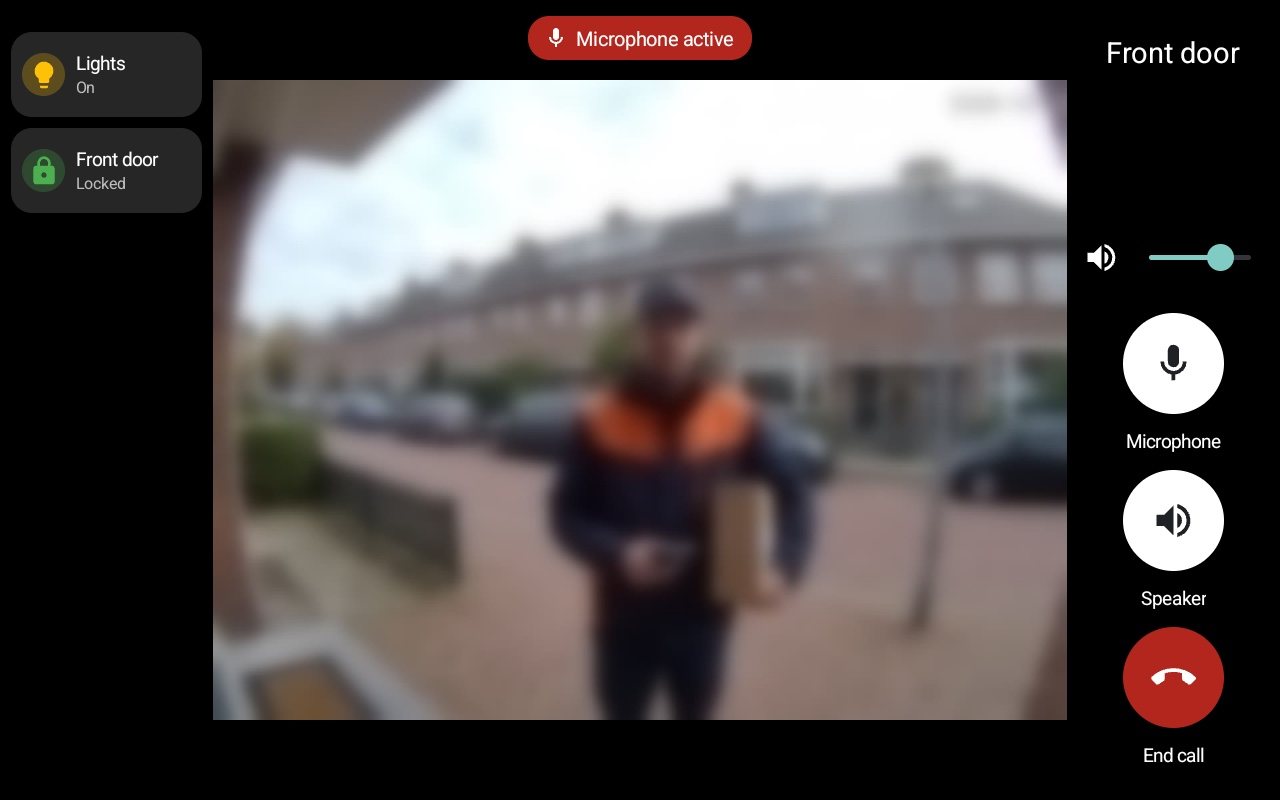
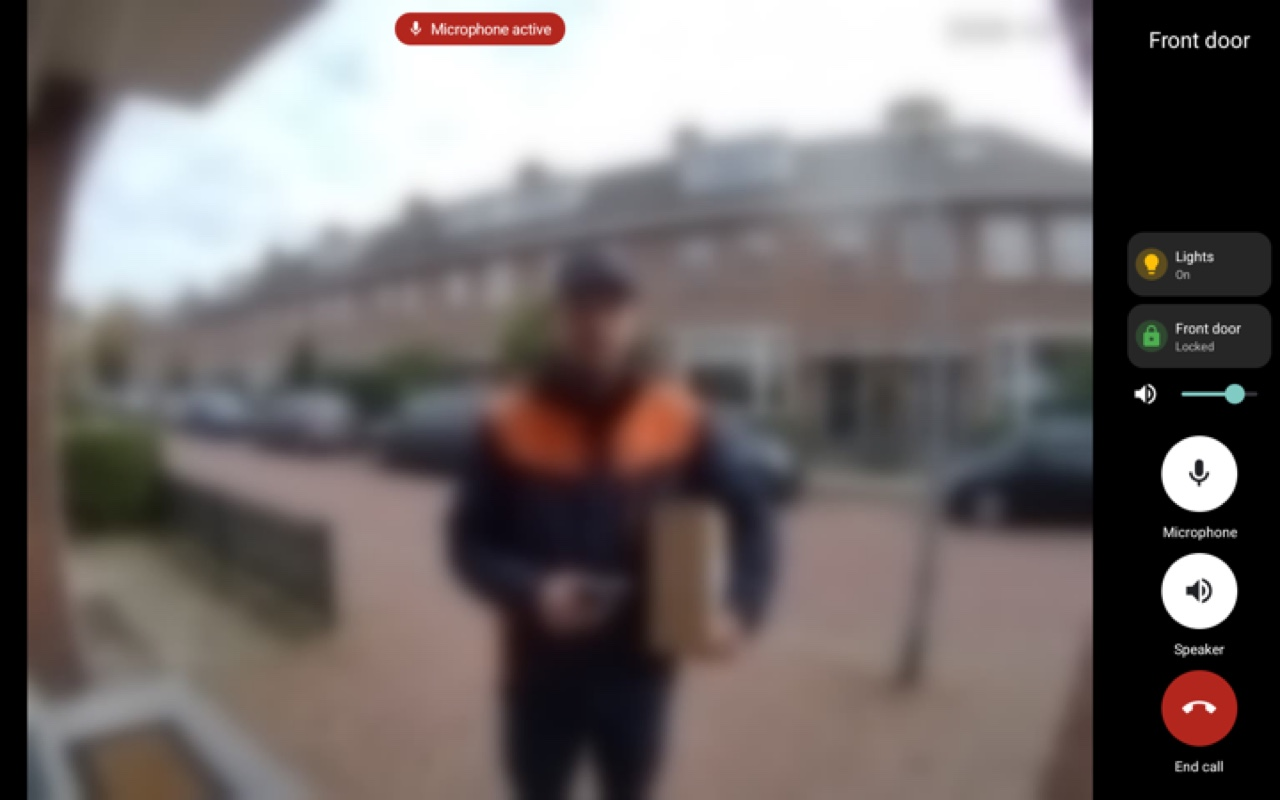
Landscape: the cards above the buttons when they fit (1.8.4-beta.1)
On a landscape screen tall enough for the cards and the buttons at 64 dp
or more, the cards join the button column, and the picture gets the left
column's width: 1067x800 instead of 960x720 dp on a 1280x800 dp tablet.
Lower screens keep the left column. Suggested in #2. The README's
landscape screenshot shows it on a Fire HD 10 size.

diff --git a/src/io/github/patrick11994/reolinkdoorbell/DoorbellView.java b/src/io/github/patrick11994/reolinkdoorbell/DoorbellView.java
@@ -91,6 +91,10 @@ final class DoorbellView extends FrameLayout {
     private boolean arranged;
     private int buttonDp = 76;
     private static final int SIDE_DP = 160;
+    private static final int CARD_DP = 64, CARD_GAP_DP = 8;
+    /** Landscape cards join the button column only if the buttons can stay at least this big. */
+    private static final int MIN_BUTTON_WITH_CARDS_DP = 64;
+    private boolean cardsRight;  // landscape: the cards above the buttons, instead of in their own column on the left
     private State state;
     private boolean speakerOn;
     private boolean micOn;
@@ -192,9 +196,11 @@ final class DoorbellView extends FrameLayout {
     @Override protected void onSizeChanged(int width, int height, int oldWidth, int oldHeight) {
         super.onSizeChanged(width, height, oldWidth, oldHeight);
         boolean wide = width > height;
-        int size = buttonDpFor(wide, height);
-        if (wide != landscape || size != buttonDp || !arranged) {
+        boolean right = wide && cardsFitRight(height);
+        int size = buttonDpFor(wide, height, right);
+        if (wide != landscape || size != buttonDp || right != cardsRight || !arranged) {
             buttonDp = size;
+            cardsRight = right;
             post(() -> {
                 arrange(wide);
                 applyPadding();
@@ -204,11 +210,27 @@ final class DoorbellView extends FrameLayout {
     }
 
     /** Buttons shrink a little on a low landscape screen, so all three always fit in the column. */
-    private int buttonDpFor(boolean wide, int heightPx) {
+    private int buttonDpFor(boolean wide, int heightPx, boolean withCards) {
         if (!wide) return 76;
-        float density = getResources().getDisplayMetrics().density;
-        float available = heightPx / density - 54 - 48 - 64;  // the name, the column's padding, the volume slider
+        float available = columnSpareDp(heightPx) - (withCards ? cardsDp() : 0);
         return Math.max(48, Math.min(76, Math.round(available / 3 - 36)));  // each button: circle + 16 ring + 20 label
+    }
+
+    /** The landscape column's height left for the buttons and cards: less the name, the padding, the volume slider. */
+    private float columnSpareDp(int heightPx) {
+        return heightPx / getResources().getDisplayMetrics().density - 54 - 48 - 64;
+    }
+
+    private float cardsDp() {
+        return cards.size() * (CARD_DP + CARD_GAP_DP) + 4;
+    }
+
+    /**
+     * Landscape: the cards go above the buttons when all of them fit there with the buttons still a good size, which
+     * gives the picture the left column's width. On a lower screen they keep their own column on the left.
+     */
+    private boolean cardsFitRight(int heightPx) {
+        return !cards.isEmpty() && columnSpareDp(heightPx) - cardsDp() >= 3 * (MIN_BUTTON_WITH_CARDS_DP + 36);
     }
 
     /** Places the name, chip, slider and buttons for portrait or landscape. */
@@ -226,11 +248,12 @@ final class DoorbellView extends FrameLayout {
             videoParams.rightMargin = theme.px(SIDE_DP);
             side.addView(title, new LinearLayout.LayoutParams(fill, wrap));
             side.addView(spacer, new LinearLayout.LayoutParams(1, 0, 1));
+            if (cardsRight) side.addView(cardBox, new LinearLayout.LayoutParams(fill, wrap));
             side.addView(volumeRow, new LinearLayout.LayoutParams(fill, wrap));
             side.addView(buttons, new LinearLayout.LayoutParams(fill, wrap));
             buttons.setOrientation(LinearLayout.VERTICAL);
             addView(side, new LayoutParams(theme.px(SIDE_DP), LayoutParams.MATCH_PARENT, Gravity.END));
-            if (!cards.isEmpty()) {
+            if (!cards.isEmpty() && !cardsRight) {
                 videoParams.leftMargin = theme.px(SIDE_DP);
                 cardSide.addView(cardBox, new ScrollView.LayoutParams(fill, wrap));
                 addView(cardSide, new LayoutParams(theme.px(SIDE_DP), LayoutParams.MATCH_PARENT, Gravity.START));
@@ -284,7 +307,8 @@ final class DoorbellView extends FrameLayout {
         int pad = theme.px(24);
         if (landscape) {
             side.setPadding(theme.px(8), pad, theme.px(8), pad);
-            cardBox.setPadding(theme.px(8), pad, theme.px(8), pad);
+            if (cardsRight) cardBox.setPadding(0, 0, 0, theme.px(12));
+            else cardBox.setPadding(theme.px(8), pad, theme.px(8), pad);
             buttons.setPadding(0, 0, 0, 0);
             volumeRow.setPadding(theme.px(4), 0, theme.px(4), theme.px(16));
         } else {
@@ -488,8 +512,12 @@ final class DoorbellView extends FrameLayout {
 
     /** The cards from the settings; a change of cards rearranges, since landscape gives them a column only if any. */
     void setCards(List<Cards.Card> cards) {
-        boolean column = this.cards.isEmpty() != cards.isEmpty();
+        boolean column = this.cards.isEmpty() != cards.isEmpty() || this.cards.size() != cards.size();
         this.cards = cards;
+        if (landscape && arranged) {
+            cardsRight = cardsFitRight(getHeight());
+            buttonDp = buttonDpFor(true, getHeight(), cardsRight);
+        }
         if (column && arranged) {
             arrange(landscape);
             applyPadding();

diff --git a/README.md b/README.md
@@ -10,7 +10,7 @@ The plugin talks to the doorbell directly on your own network. It needs no Home 
 
 | Ringing | In a call | Landscape |
 |:---:|:---:|:---:|
-| <img src="docs/screenshot-ringing.jpg" alt="The call screen while it rings: the doorbell's live video, a Lights and a Front door card, and Answer, Speaker and Hang up" width="220"> | <img src="docs/screenshot-in-call.jpg" alt="In a call: Microphone active, the cards, the volume slider, and Microphone, Speaker and End call" width="220"> | <img src="docs/screenshot-landscape.jpg" alt="The call screen on a landscape screen: the cards on the left, the video in the middle and the controls on the right" width="352"> |
+| <img src="docs/screenshot-ringing.jpg" alt="The call screen while it rings: the doorbell's live video, a Lights and a Front door card, and Answer, Speaker and Hang up" width="220"> | <img src="docs/screenshot-in-call.jpg" alt="In a call: Microphone active, the cards, the volume slider, and Microphone, Speaker and End call" width="220"> | <img src="docs/screenshot-landscape.jpg" alt="The call screen on a landscape tablet: the video, with the cards above the controls on the right" width="352"> |
 
 *The picture is blurred on purpose.*
 
@@ -115,7 +115,7 @@ Each card has these fields. It needs an action, an entity or both.
 | **Action** | What a tap does, picked with the same chooser as Gestures: a Home Assistant service, script or automation, a dashboard view, and the rest. Optional: without one, the card only shows the state. |
 | **Hold to run** | Runs the action only after you hold the card for a moment, for a door or a gate |
 
-The card's colour follows the state the way Home Assistant does: a light that is on is amber, a locked lock or an armed alarm green, an unlocked lock or a triggered alarm red, and a state that is changing orange. An entity that Home Assistant does not have, or that is unreachable, shows dimmed as *Unavailable*, never as off. In portrait the cards sit above the call buttons, two to a row; in landscape they get a column on the left.
+The card's colour follows the state the way Home Assistant does: a light that is on is amber, a locked lock or an armed alarm green, an unlocked lock or a triggered alarm red, and a state that is changing orange. An entity that Home Assistant does not have, or that is unreachable, shows dimmed as *Unavailable*, never as off. In portrait the cards sit above the call buttons, two to a row. In landscape they go above the call buttons too when the screen is tall enough, which gives the picture more room, and get their own column on the left otherwise.
 
 ## Good to know
 
